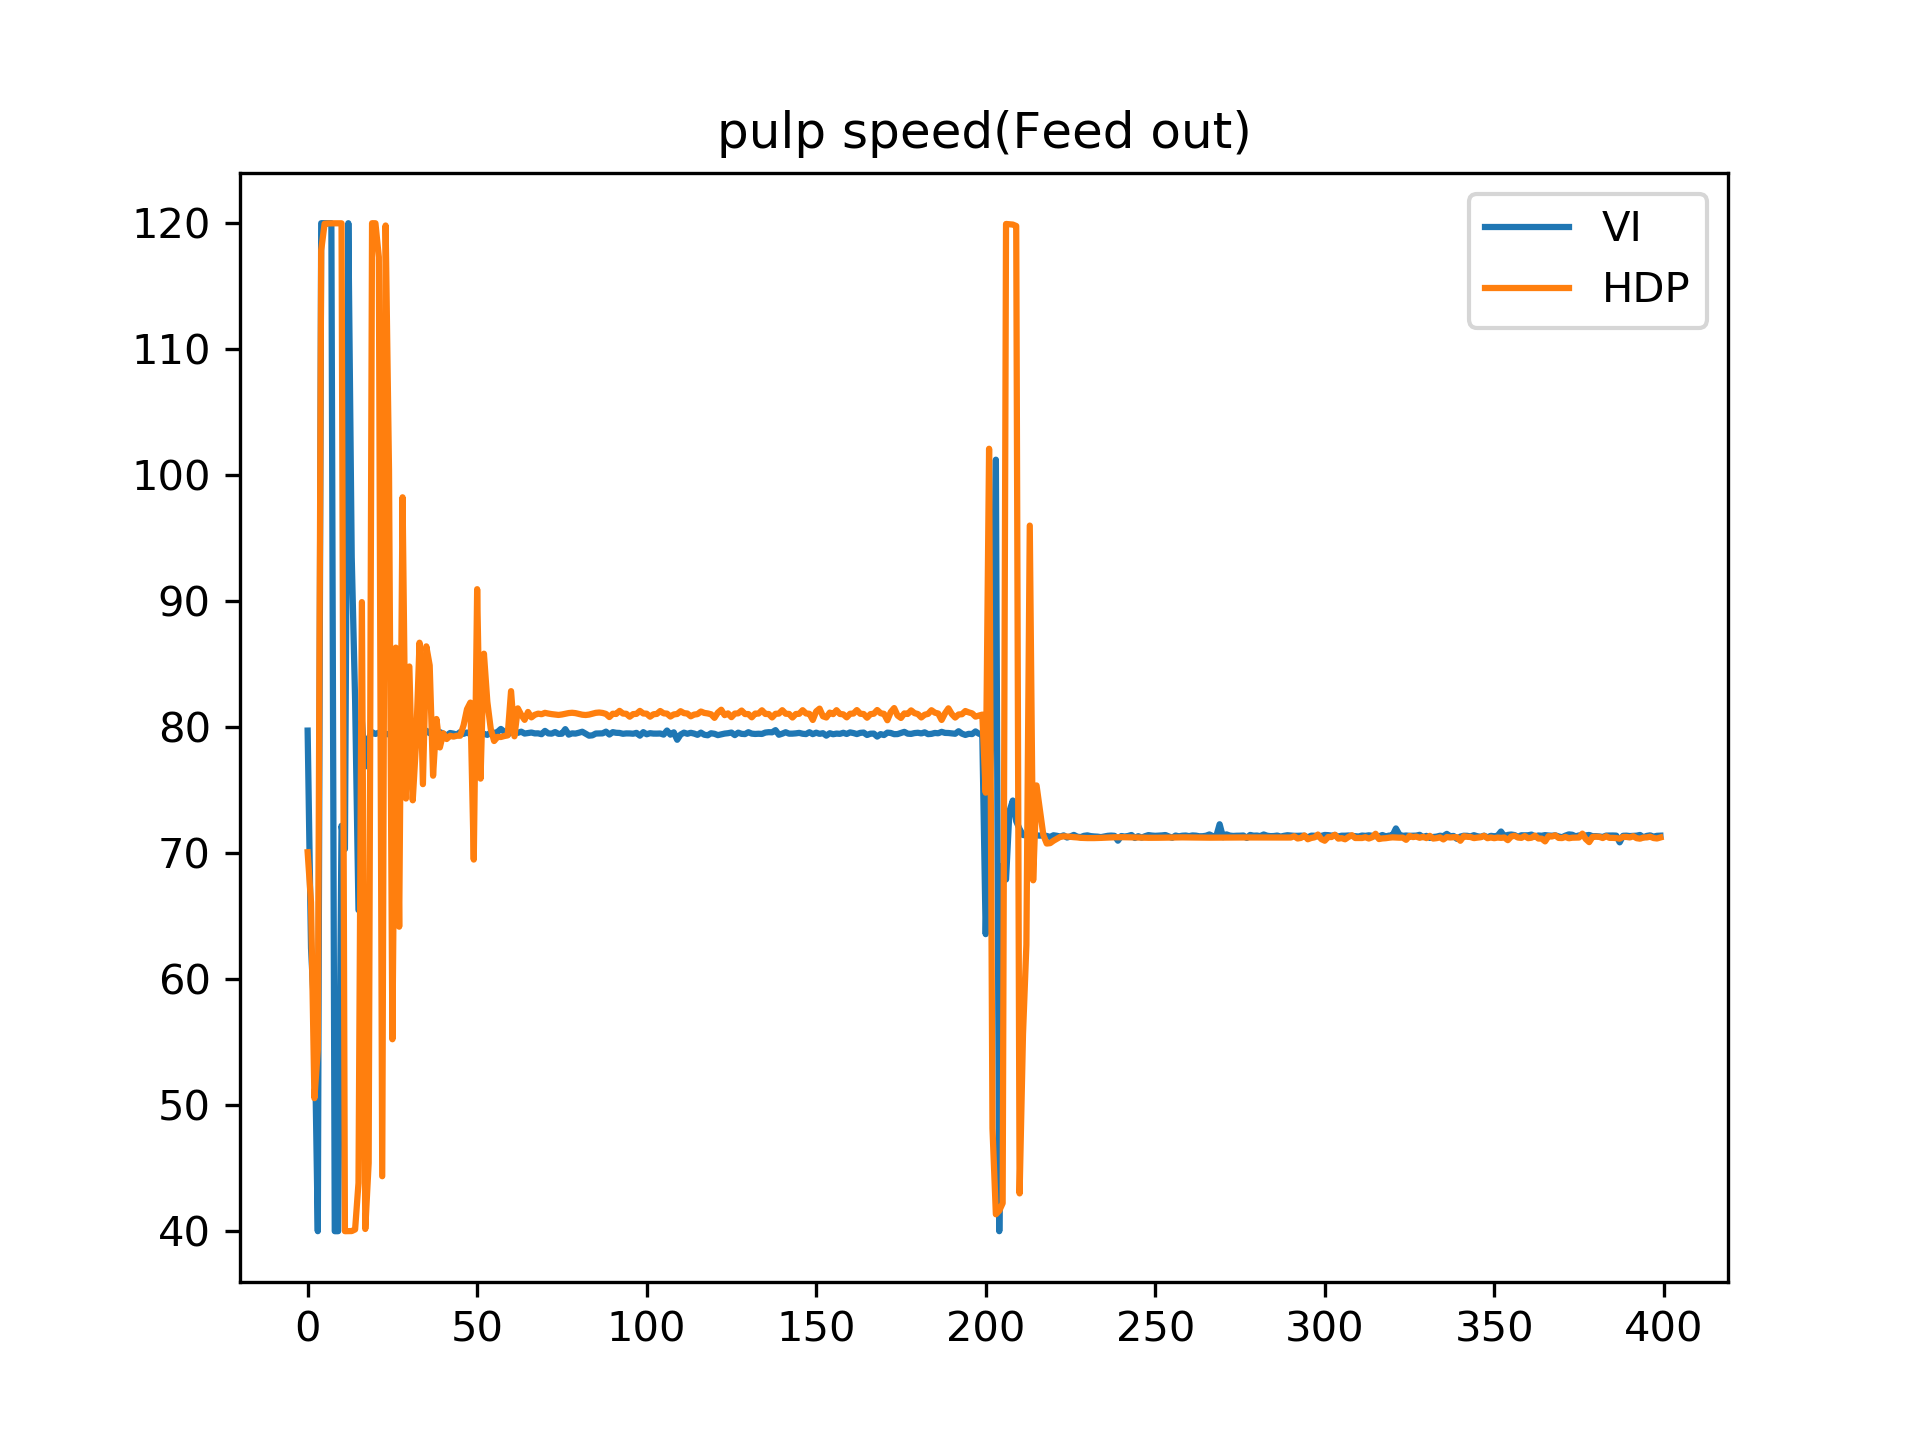
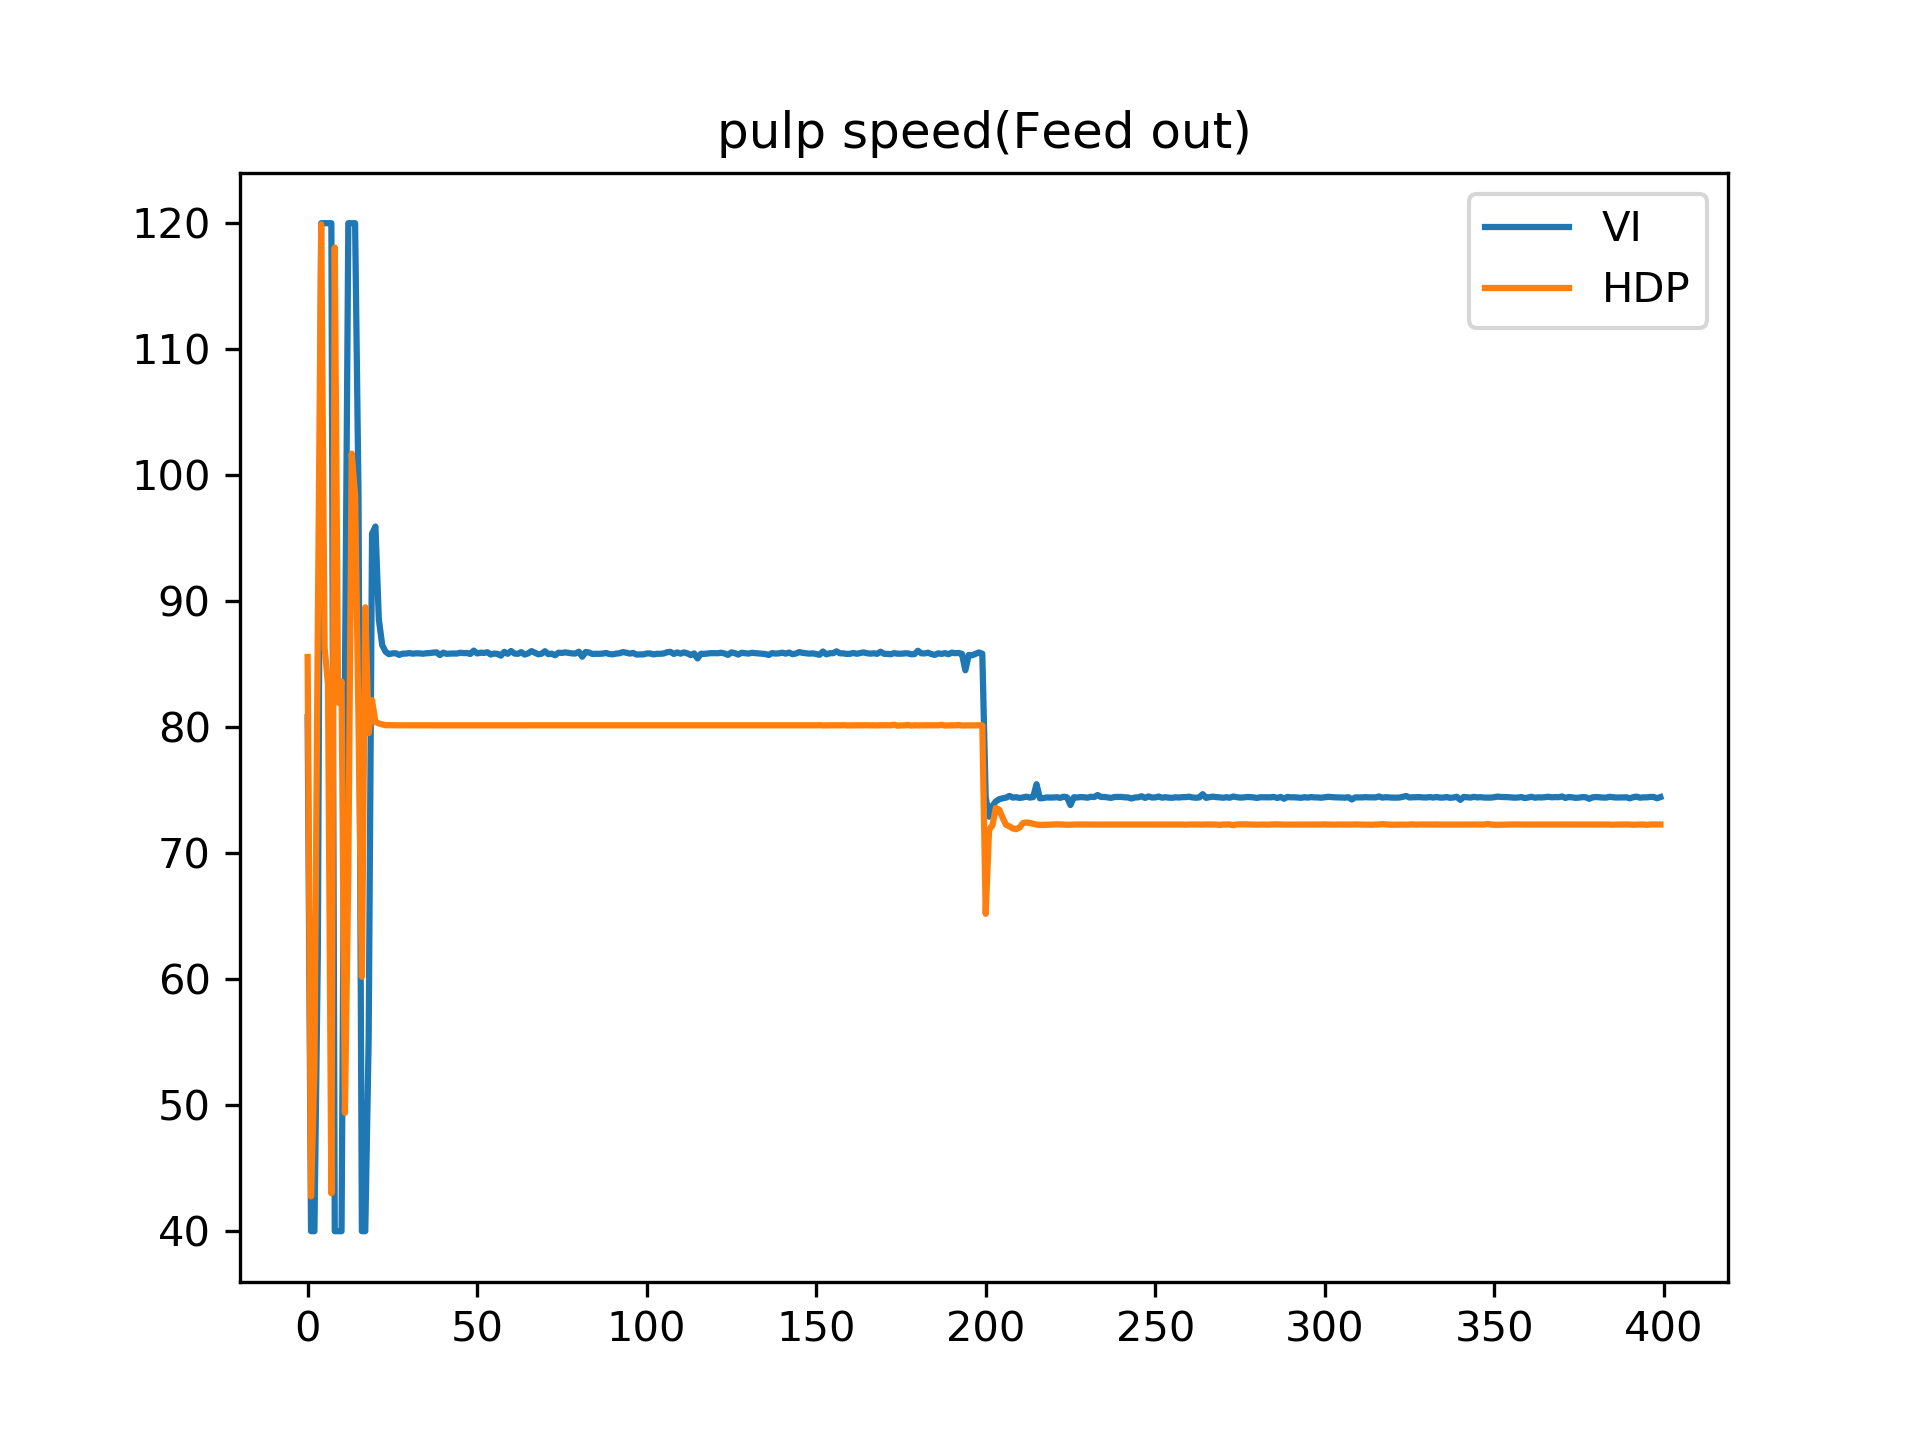
add runforteach

Changed region(s): [[0.1562, 0.1562, 0.875, 0.875]]

diff --git a/Control_Exp1001/demo/thickener/run_for_teach.py b/Control_Exp1001/demo/thickener/run_for_teach.py
@@ -1,0 +1,114 @@
+#!/usr/bin/python
+# -*- coding:utf8 -*-
+import numpy as np
+import math
+import Control_Exp1001 as CE
+import os
+from multiprocessing import Process
+import json
+import torch
+from Control_Exp1001.demo.thickener.hdp import HDP
+from Control_Exp1001.simulation.thickener import Thickener
+from Control_Exp1001.common.penaltys.quadratic import Quadratic
+import matplotlib.pyplot as plt
+from Control_Exp1001.demo.thickener.one_round_exp import OneRoundExp
+from Control_Exp1001.demo.thickener.one_round_evaluation import OneRoundEvaluation
+from Control_Exp1001.demo.thickener.adhdp_make import adhdp
+import random
+from Control_Exp1001.common.replay.replay_buffer import ReplayBuffer
+# 效用函数参数
+penalty_para = {
+    #"weight_matrix": [0, 0.002],
+    "weight_matrix": [0, 0.004],
+    #"S": [0.00001, 0.00008],
+    "S": [0.0001, 0.0008]
+}
+# 仿真过程浓密机参数
+thickner_para = {
+    "dt":1,
+    "noise_in": False,
+    "noise_p": 0.002,
+    "noise_type": 1,
+}
+
+
+def run_hdp(rounds=1000,seed=random.randint(0,1000000),name='HDP', predict_round=800):
+
+    print('seed :',seed)
+    from Control_Exp1001.demo.thickener.hdp_maker import new_hdp
+    hdp = new_hdp(predict_round=predict_round)
+    penalty = Quadratic(**penalty_para)
+    env_hdp = Thickener(
+                    penalty_calculator=penalty,
+                    **thickner_para,
+                    )
+
+
+    res1 = OneRoundExp(controller=hdp, env=env_hdp,max_step=rounds, exp_name=name).run()
+
+
+    return res1
+
+
+
+    #controller.test_predict_model(test_rounds=100)
+
+
+def run_hdp_sample(rounds=1000,seed=random.randint(0,1000000)):
+
+
+    print('seed :',seed)
+    print('hdp_sample')
+    from Control_Exp1001.demo.thickener.hdp_sample_maker import hdp_sample
+    penalty = Quadratic(**penalty_para)
+    env_hdp = Thickener(
+            penalty_calculator=penalty,
+            **thickner_para,
+    )
+
+    res1 = OneRoundExp(controller=hdp_sample, env=env_hdp,max_step=rounds, exp_name='HDP_sample').run()
+
+    return res1
+
+    #controller.test_predict_model(test_rounds=100)
+
+
+def run_vi(rounds=1000,seed=random.randint(0,1000000),name='VI',capacity=2,
+           predict_round=3000):
+
+    print('seed :',seed)
+    torch.manual_seed(seed)
+    from Control_Exp1001.demo.thickener.vi_maker import new_vi
+    vi = new_vi(capacity=capacity,predict_round=predict_round)
+    penalty = Quadratic(**penalty_para)
+    env_vi = Thickener(
+                    penalty_calculator=penalty,
+                    **thickner_para,
+                    )
+
+
+    res1 = OneRoundExp(controller=vi, env=env_vi,max_step=rounds, exp_name=name).run()
+
+
+    return res1
+
+
+
+def vi_compare_hdp():
+    round = 400
+    predict_round=800
+    res_list = []
+    rand_seed = np.random.randint(0,10000000)
+    res_list.append(run_vi(rounds=round,seed=rand_seed, name='VI', predict_round=predict_round))
+    res_list.append(run_hdp(rounds=round,seed=rand_seed, name='HDP', predict_round=predict_round))
+    eval_res = OneRoundEvaluation(res_list=res_list)
+    eval_res.plot_all()
+
+
+if __name__ == '__main__':
+
+    # 比较纯vi和hdp区别
+    vi_compare_hdp()
+
+
+
